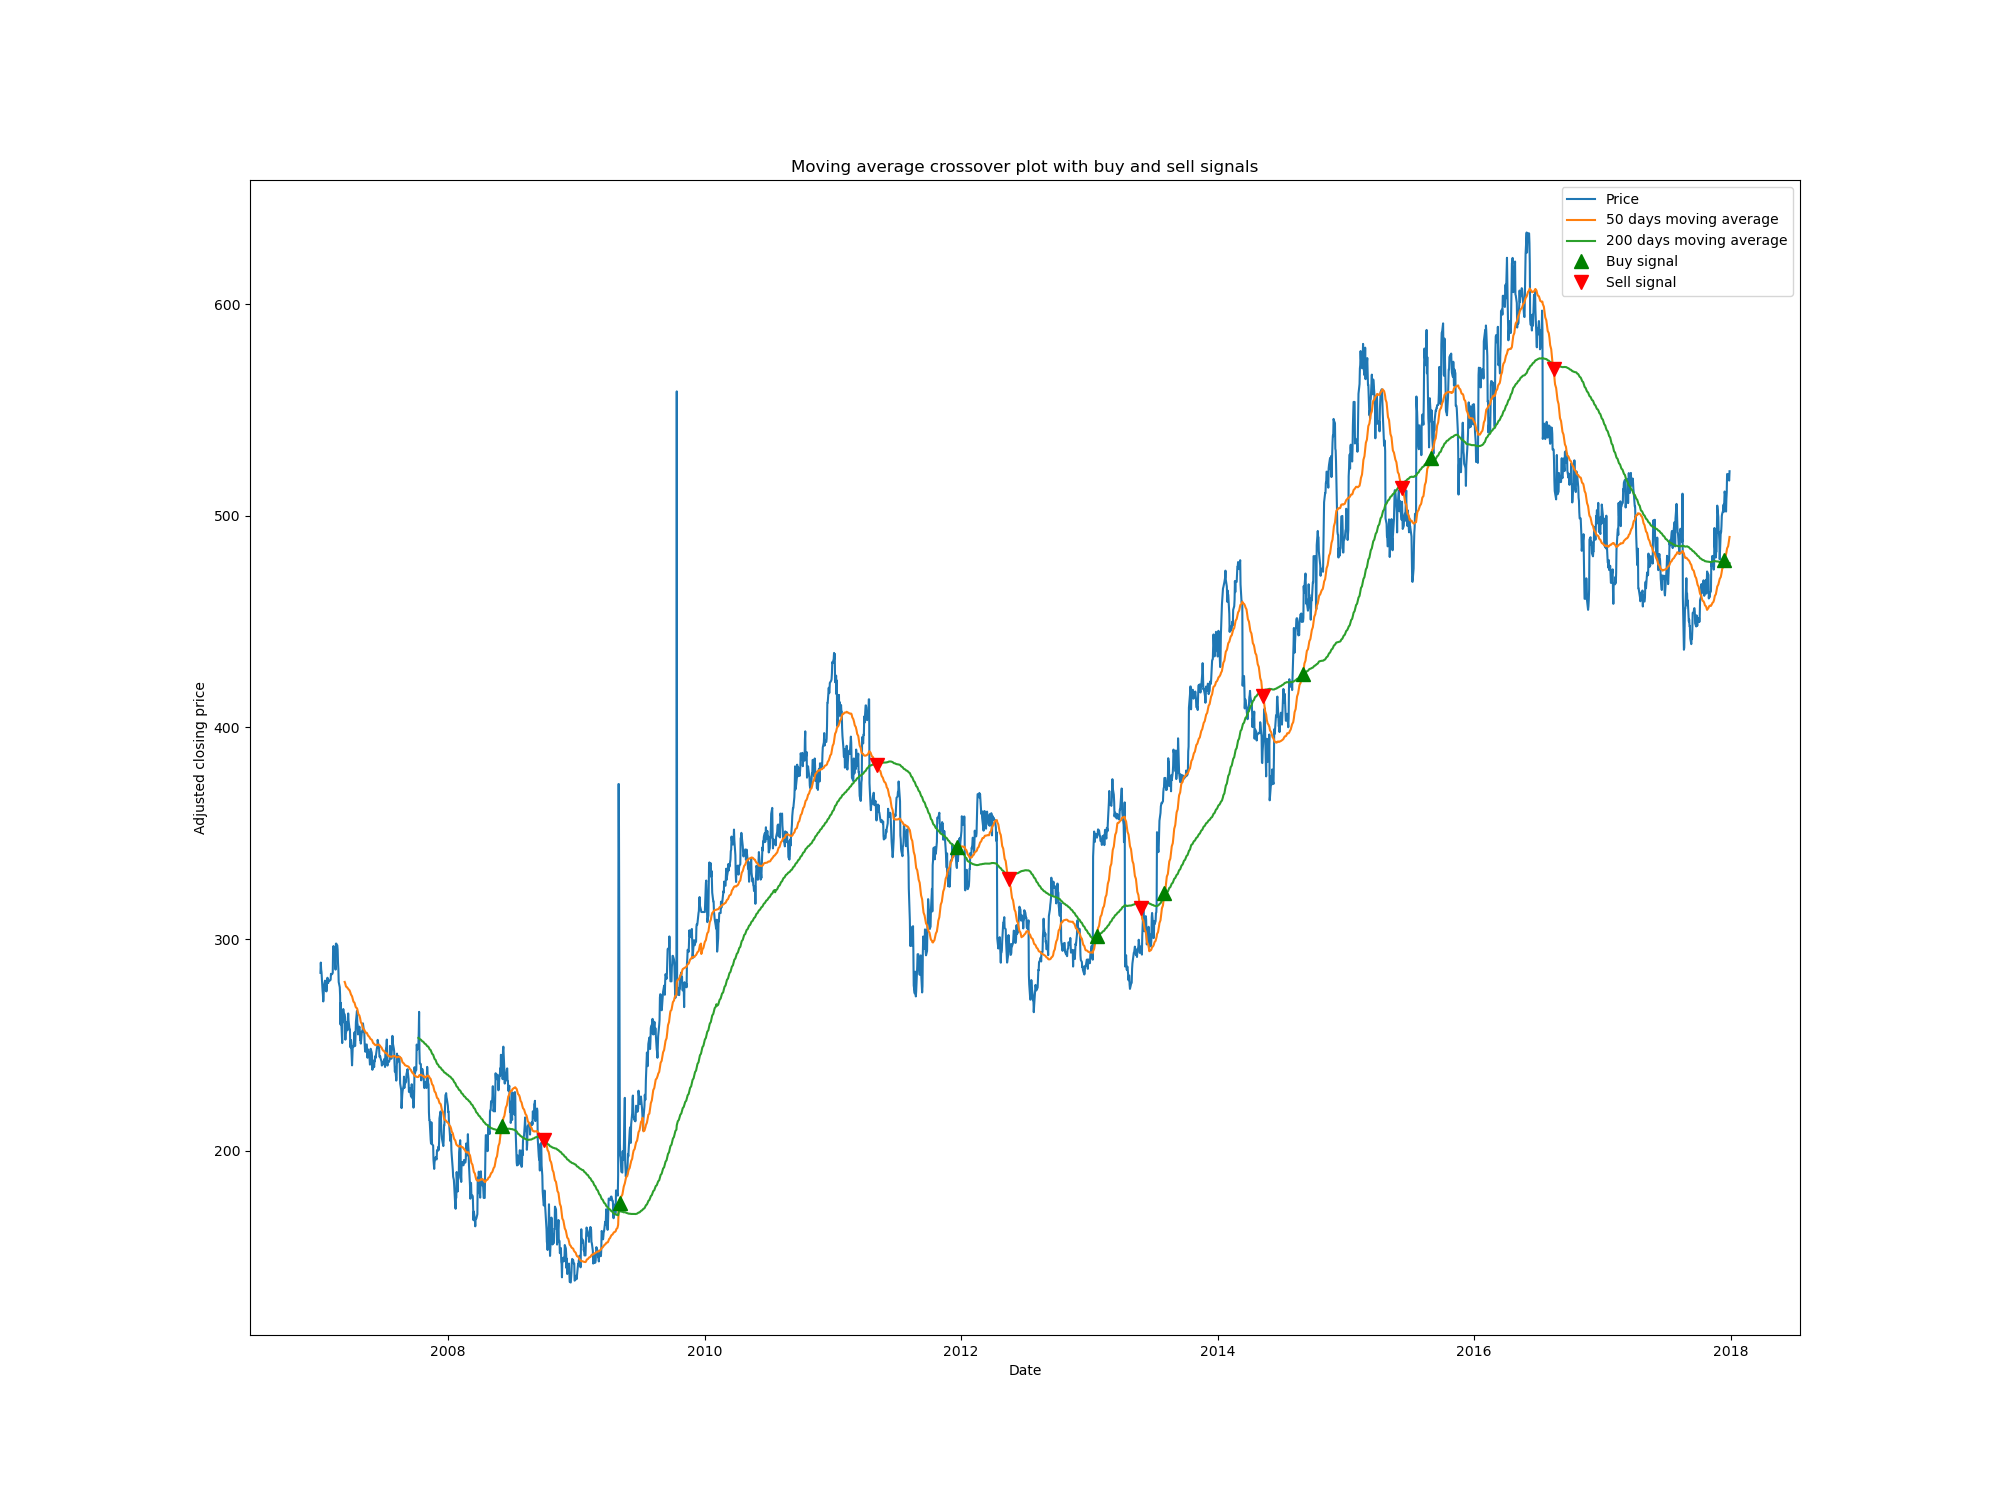
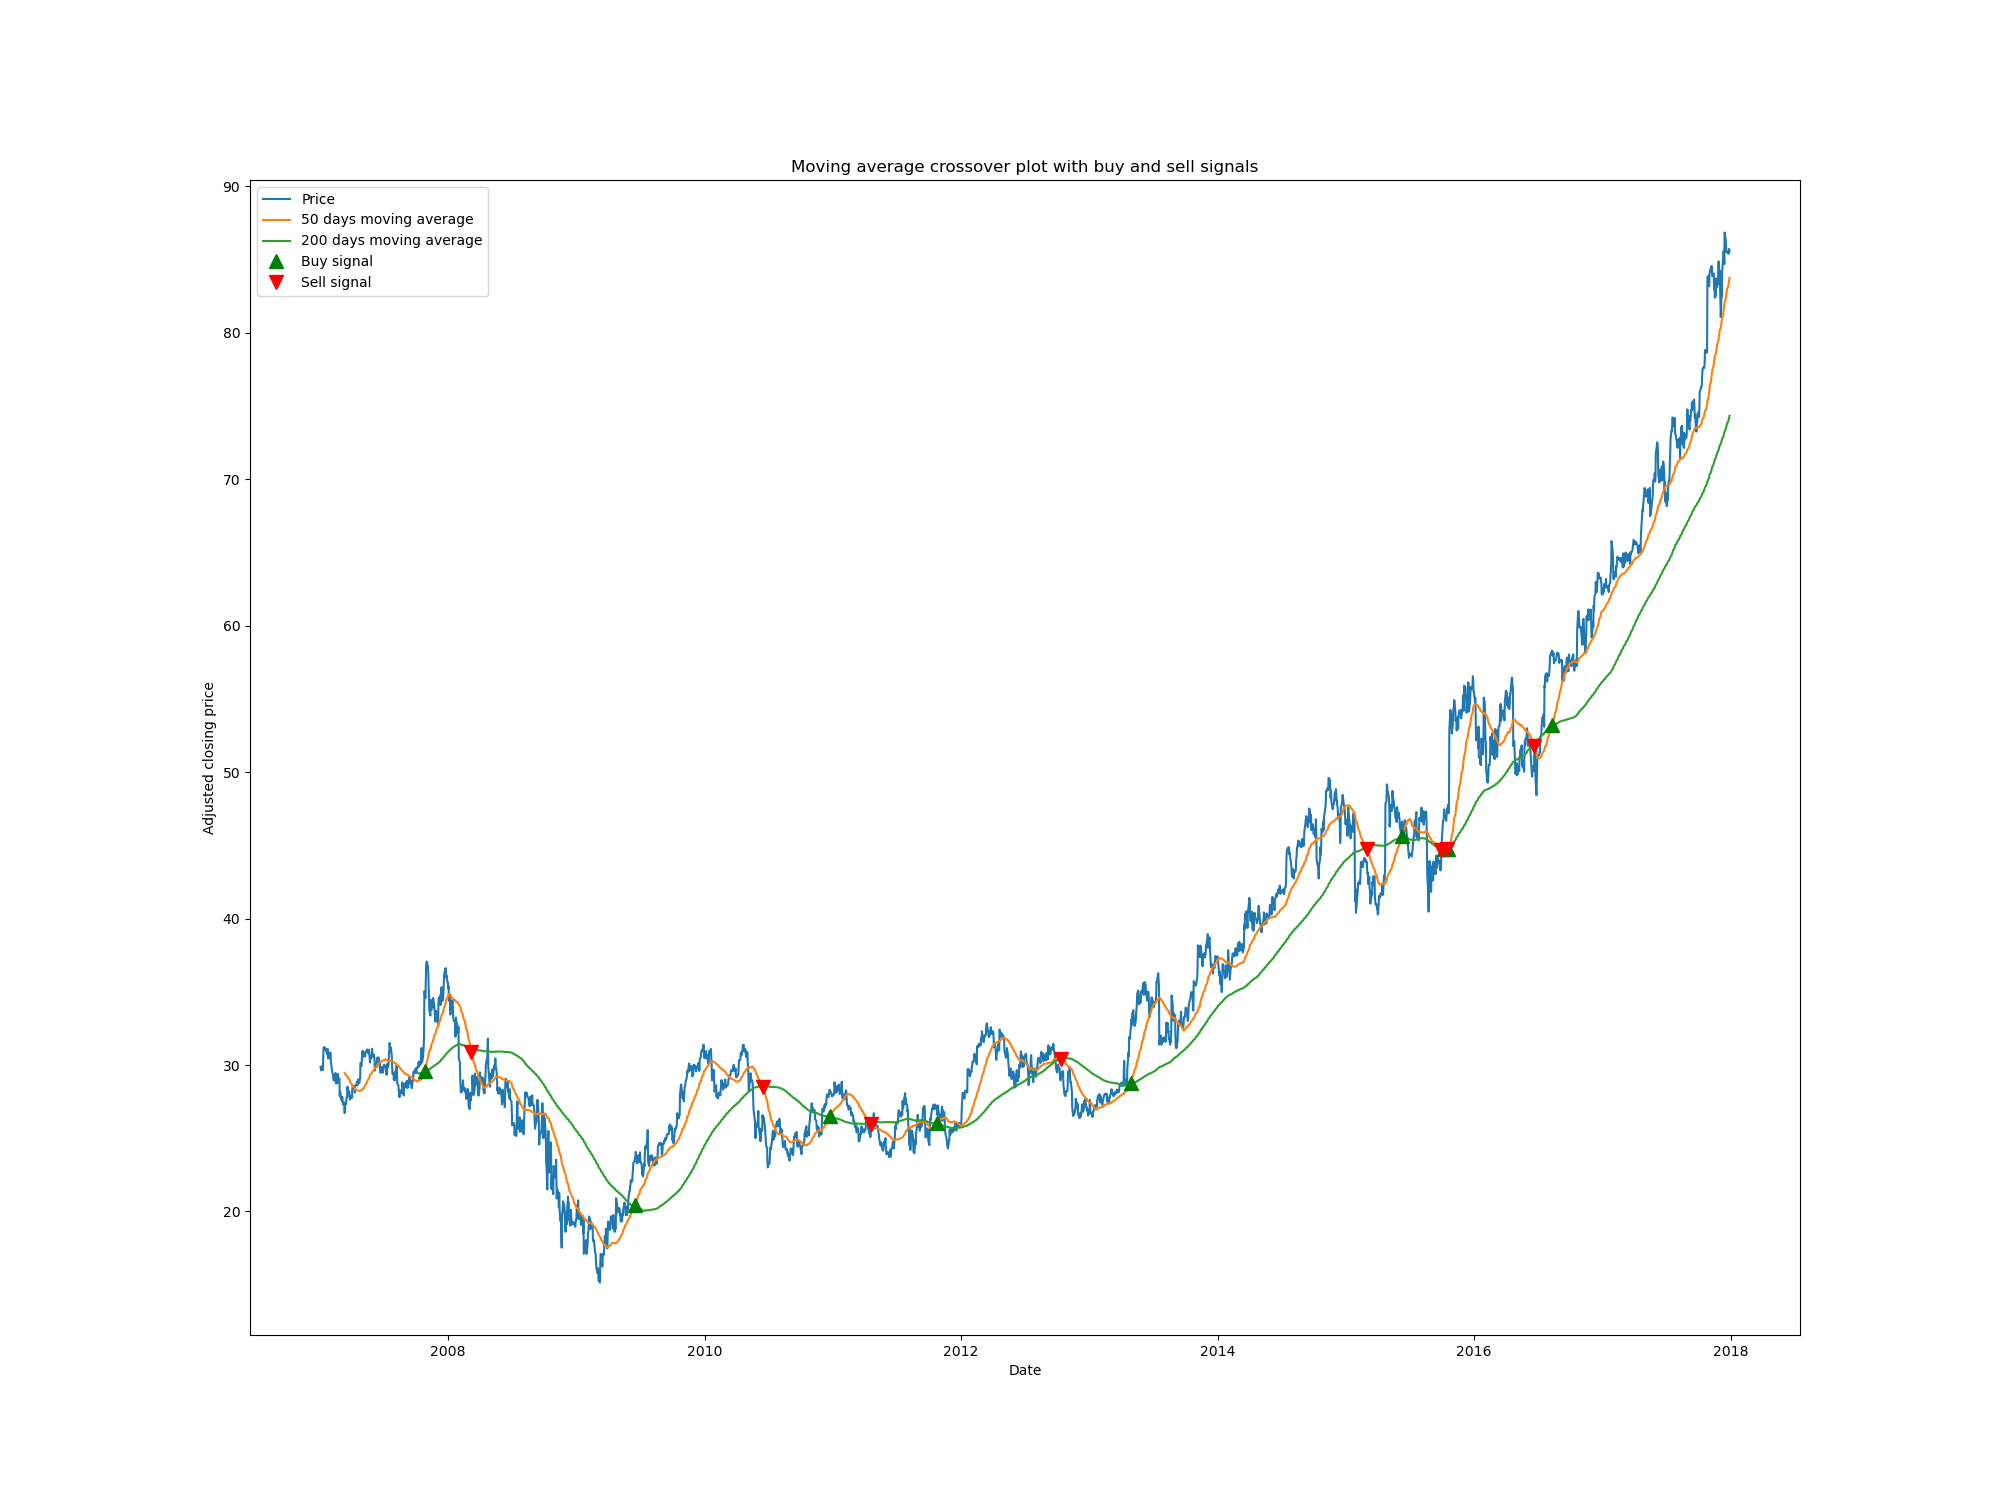
Change to well known tickers in doc

Changed region(s): [[0.155, 0.1227, 0.899, 0.8587], [0.124, 0.1227, 0.248, 0.2147], [0.093, 0.46, 0.124, 0.552]]

diff --git a/README.md b/README.md
@@ -47,10 +47,10 @@ optional arguments:
 
 Example
 ```
-python ma_crossover.py --ticker='INFY.NS' --start_date='2007-01-01' --end_date='2017-12-31'
+python ma_crossover.py --ticker='MSFT' --start_date='2007-01-01' --end_date='2017-12-31'
 ```
 
 Example with custom capital value
 ```
-python ma_crossover.py --ticker='INFY.NS' --start_date='2007-01-01' --end_date='2017-12-31' --capital=250000
+python ma_crossover.py --ticker='AAPL' --start_date='2007-01-01' --end_date='2017-12-31' --capital=250000
 ```
